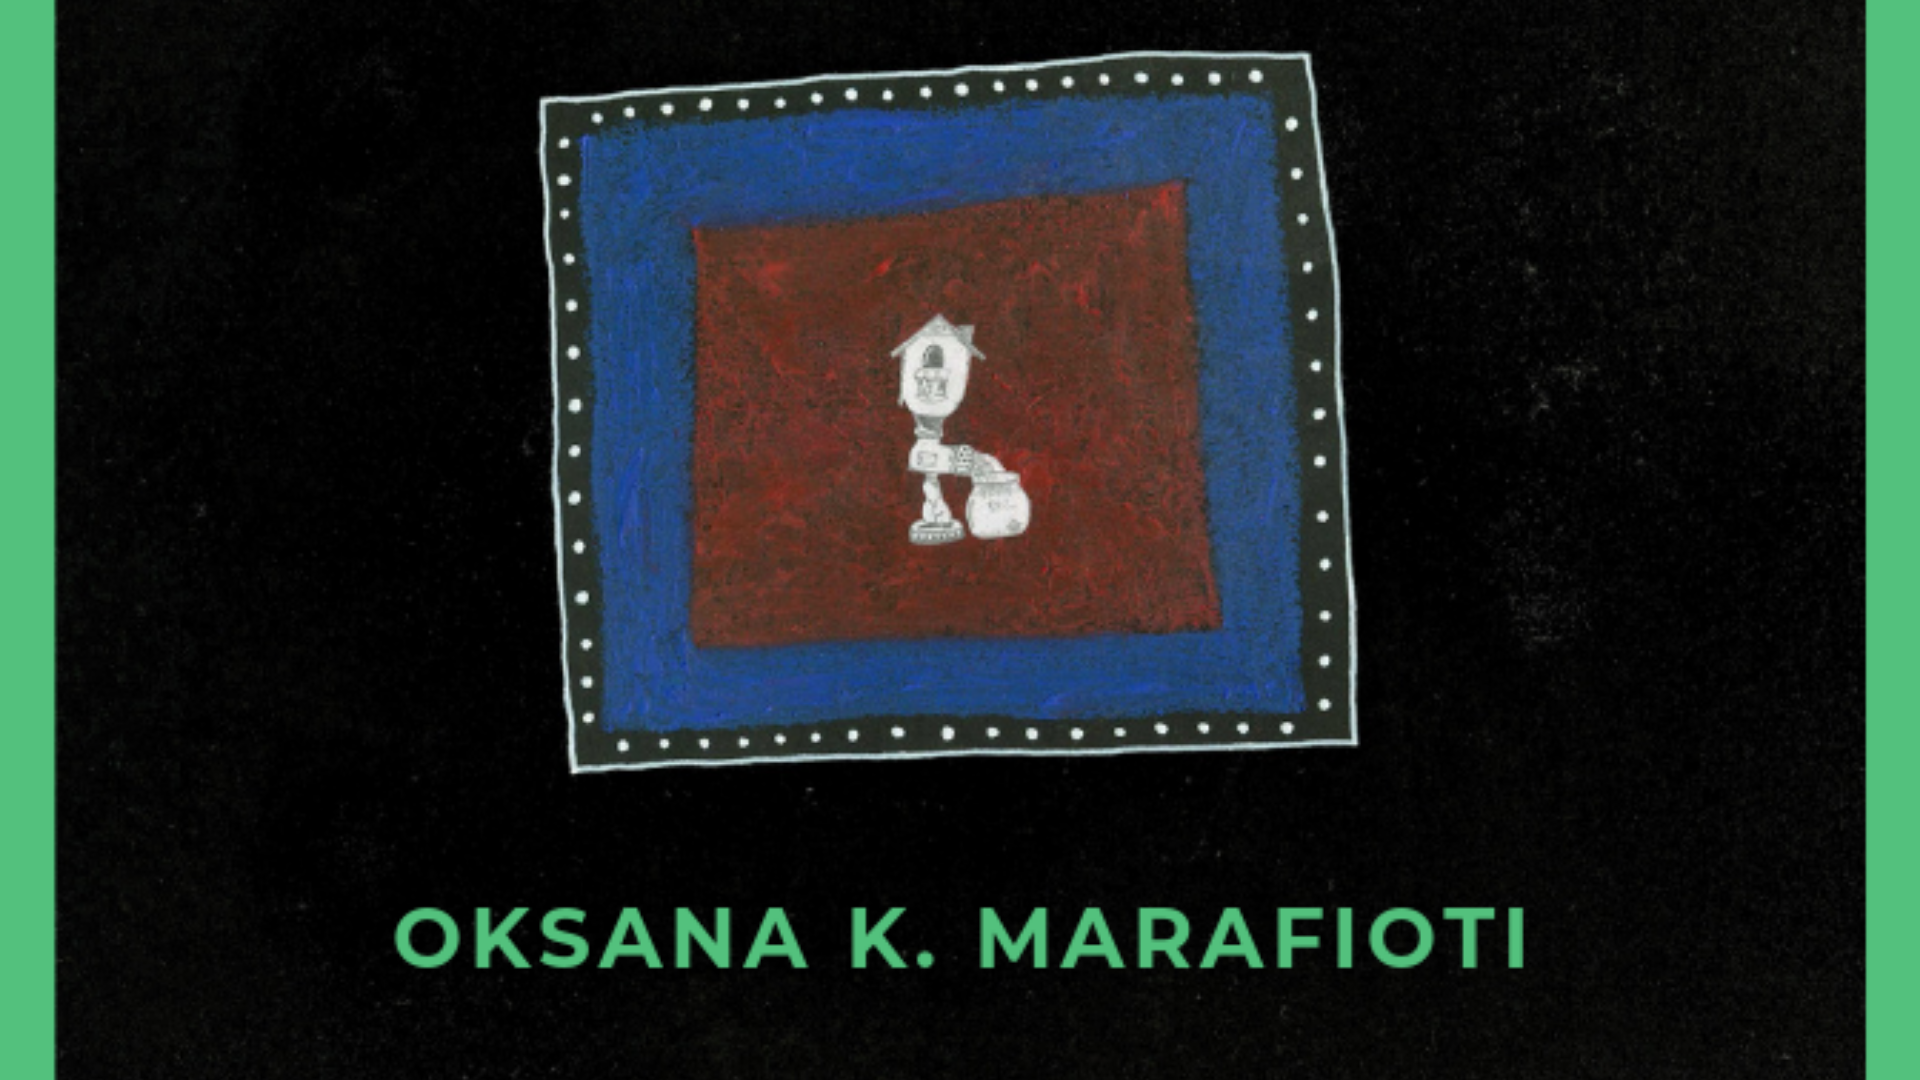
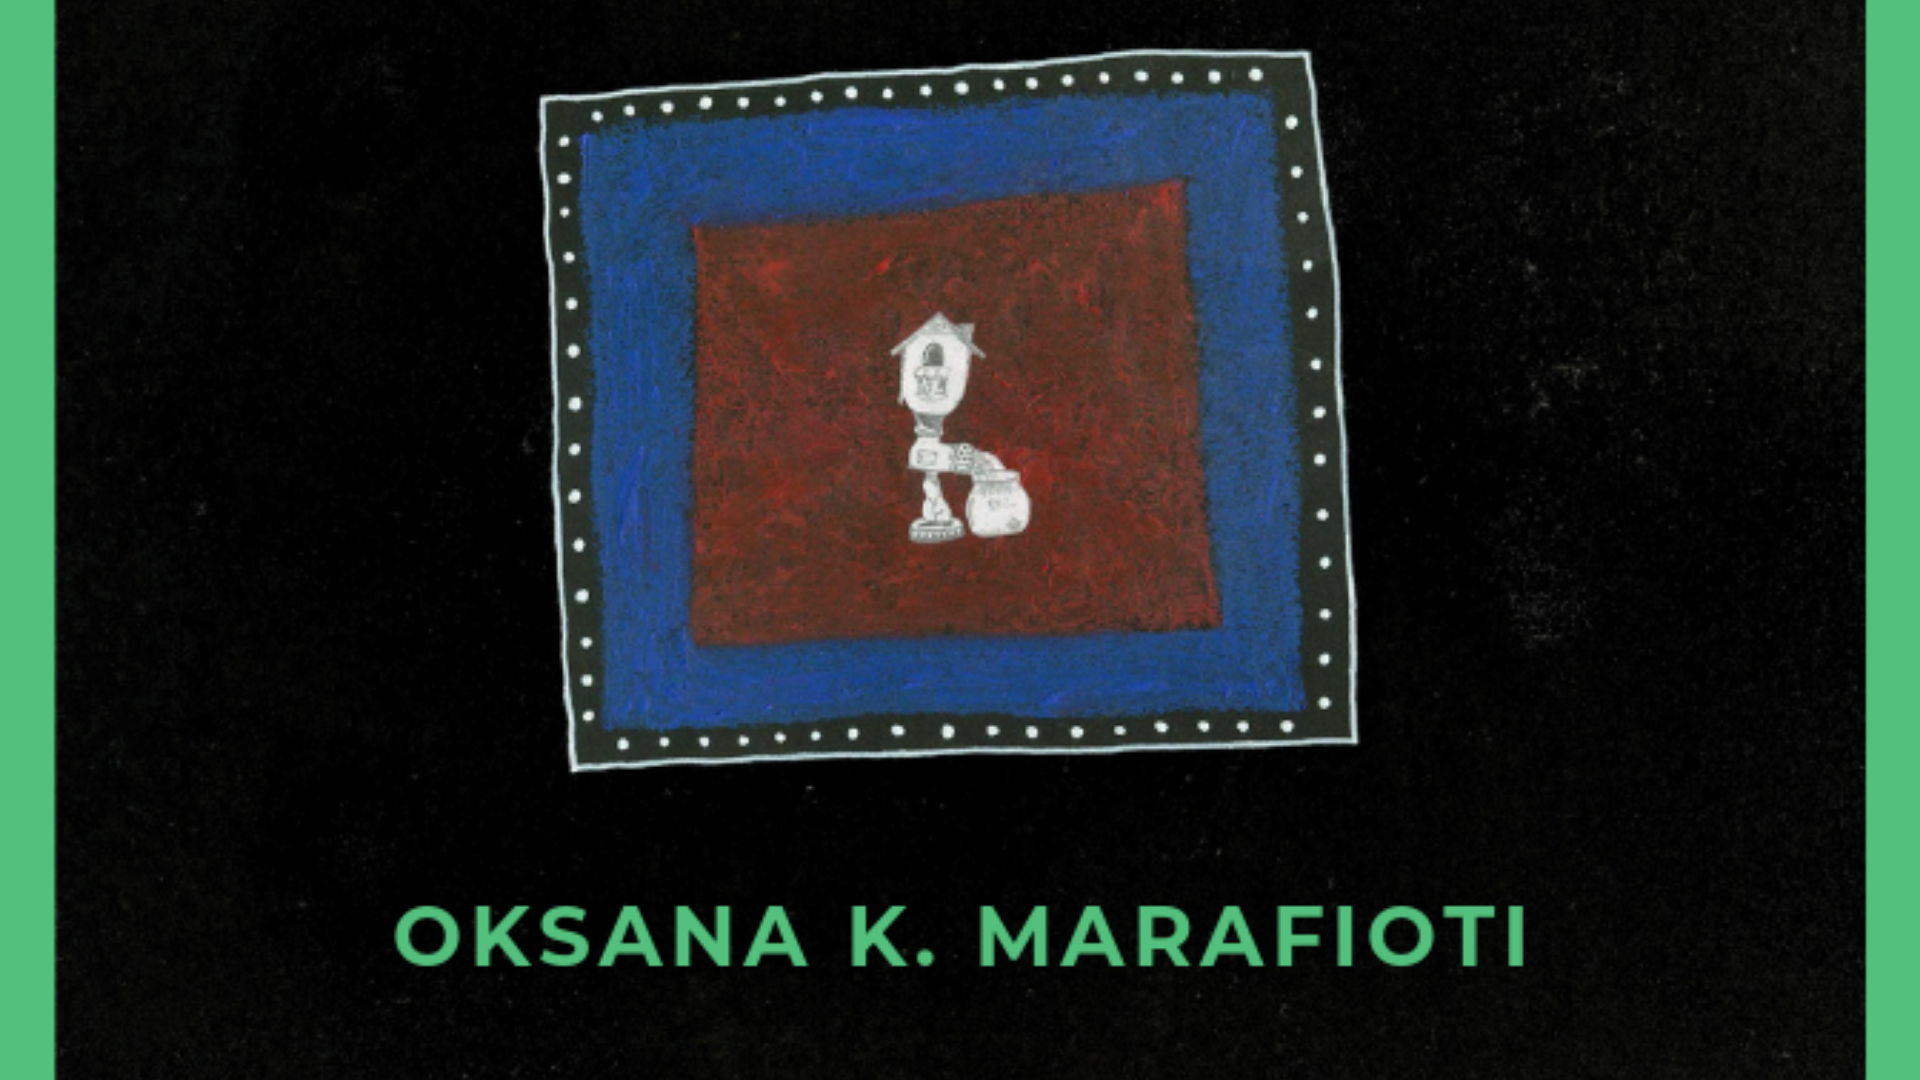
added Open Graph Tags to Oksana page

diff --git a/oksana.html b/oksana.html
@@ -7,7 +7,7 @@
     <title>Oksana K. Marafioti</title>
     <link rel="icon" href="assets/oksanaImages/tonitrus.ico">
     <!-- Open Graph Tags -->
-  <meta property="og:image" content="assets/oksanaImages/untitled.png">
+  <meta property="og:image" content="assets/oksanaImages/oksana-home.png">
   <meta property="og:image:type" content="image/png">
   <meta property="og:image:width" content="1024">
   <meta property="og:image:height" content="1024">
